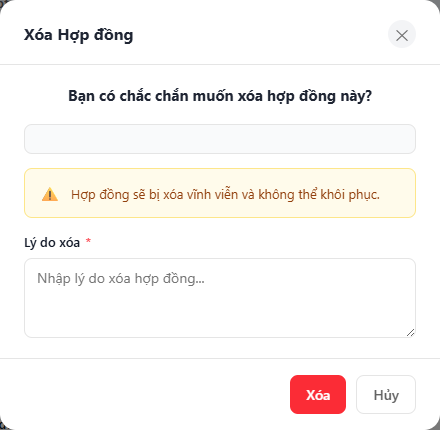
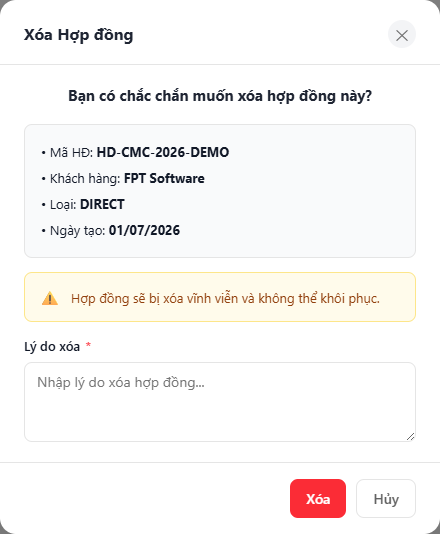
docs(UC-CON-06): rewrite FRS v1.1 — soft delete, lý do xóa, recapture modal screenshot
- Đổi sang soft delete: bổ sung data model (deleted_at, deleted_by, delete_reason)
- Thêm field "Lý do xóa *" bắt buộc trong modal (BR-05)
- Giải quyết OQ-01 (soft delete), OQ-02 (file giữ liên kết, Phase 3 cleanup 3 tháng), OQ-03 (numbering)
- Bỏ wireframe ASCII, thay bằng screenshot demo đúng nội dung
- Recapture: fix info box trống (login Manager + contract trống để conOpenDelete populate đúng)

diff --git a/docs/frs/contracts/UC-CON-06_delete_contract.md b/docs/frs/contracts/UC-CON-06_delete_contract.md
@@ -1,6 +1,6 @@
 # UC-CON-06 — Xóa Hợp đồng
 
-> Module: M-02 Contract Management | Phiên bản: 1.0 | Ngày: 06/07/2026
+> Module: M-02 Contract Management | Phiên bản: 1.1 | Ngày: 07/07/2026
 > Trạng thái: Draft for Review
 
 ---
@@ -11,21 +11,30 @@
 |---|---|
 | **Tên chức năng** | Xóa Hợp đồng |
 | **UC ID** | UC-CON-06 |
-| **Mô tả** | Sales xóa một hợp đồng khỏi hệ thống. Chỉ được phép xóa khi hợp đồng chưa có Subscription nào. Thao tác yêu cầu xác nhận và ghi Audit Log bắt buộc. |
+| **Mô tả** | Sales/Manager xóa một hợp đồng khỏi hệ thống bằng cách soft delete (set `deleted_at`). Chỉ được phép xóa khi hợp đồng chưa có Subscription nào. Thao tác yêu cầu nhập lý do xóa, xác nhận và ghi Audit Log bắt buộc. |
 | **Tác nhân** | Sales, Manager |
-| **Tiền điều kiện** | Đã đăng nhập và có quyền `contract:delete`. Hợp đồng tồn tại trong hệ thống. |
-| **Hậu điều kiện** | (Success) Hợp đồng bị xóa khỏi hệ thống. Audit log ghi nhận actor, timestamp, mã HĐ. Sales redirect về Danh sách Hợp đồng với toast thành công. (Failure) Không có dữ liệu nào bị xóa. Hợp đồng vẫn tồn tại nguyên vẹn. |
+| **Tiền điều kiện** | Đã đăng nhập và có quyền `contract:delete`. Hợp đồng tồn tại trong hệ thống (`deleted_at IS NULL`). |
+| **Hậu điều kiện** | (Success) Hợp đồng được đánh dấu `deleted_at = now()`, không hiển thị trong hệ thống. Audit log ghi nhận actor, timestamp, mã HĐ, lý do xóa. Actor redirect về Danh sách Hợp đồng với toast thành công. (Failure) Không có dữ liệu nào bị thay đổi. Hợp đồng vẫn tồn tại nguyên vẹn. |
 | **Ngoại lệ** | Hợp đồng có Subscription (bất kể trạng thái) → chặn xóa, nút 🗑 disabled. |
-| **Điểm vào** | (a) Click icon 🗑 trên row trong Danh sách (UC-CON-01). (b) Click nút "🗑 Xóa" trong action bar của Chi tiết Hợp đồng (UC-CON-03). |
+| **Điểm vào** | (a) Nhấn icon 🗑 trên row trong Danh sách (UC-CON-01). (b) Nhấn nút "🗑 Xóa" trong action bar của Chi tiết Hợp đồng (UC-CON-03). |
 
 ### Quy tắc nghiệp vụ
 
 | BR ID | Nội dung |
 |---|---|
 | BR-01 | Chỉ được xóa khi `subs.length = 0`. Kể cả subscription đã EXPIRED/REVOKED cũng chặn xóa — một khi HĐ đã phát sinh sub, không thể xóa. |
-| BR-02 | Nút 🗑 bị disabled ngay khi render nếu `subs.length > 0` — không đợi Sales click rồi mới báo lỗi (BR đồng bộ với UC-CON-01 BR-02). Tooltip: *"Đã có Subscription, không thể xóa"*. |
-| BR-03 | Audit log bắt buộc — ghi nhận actor, timestamp, mã HĐ, loại HĐ, tên KH. Nếu không ghi được thì rollback, không xóa hợp đồng. |
-| BR-04 | Xóa là hard delete — contract record bị xóa vật lý khỏi hệ thống (khác với Customer là soft delete). Không có luồng khôi phục qua UI. |
+| BR-02 | Nút 🗑 bị disabled ngay khi render nếu `subs.length > 0` — không đợi người dùng nhấn rồi mới báo lỗi. Tooltip: *"Đã có Subscription, không thể xóa"*. |
+| BR-03 | Audit log bắt buộc — ghi nhận actor, timestamp, mã HĐ, loại HĐ, tên KH, **lý do xóa**. Nếu không ghi được thì rollback toàn bộ, không thực hiện soft delete. |
+| BR-04 | Xóa là **soft delete** — set `contract.deleted_at = now()`, `contract.deleted_by = actor_id`, `contract.delete_reason = {lý do}`. Record vẫn tồn tại trong DB, không hiển thị trong UI. Không có luồng khôi phục qua UI (chỉ admin DB). |
+| BR-05 | Field "Lý do xóa" là bắt buộc — nút "🗑 Xóa" trong modal disabled cho đến khi field được điền. |
+
+### Data model — Các field bổ sung cho soft delete
+
+| Field | Kiểu | Nullable | Mô tả |
+|---|---|---|---|
+| `deleted_at` | timestamp | ✅ | NULL = HĐ đang hoạt động. Không null = đã xóa. |
+| `deleted_by` | FK (user_id) | ✅ | Actor thực hiện xóa. |
+| `delete_reason` | text | ✅ | Lý do xóa do người dùng nhập. |
 
 ---
 
@@ -37,68 +46,44 @@
 |---|---|---|
 | **1** | System | Tại Danh sách (UC-CON-01) hoặc Chi tiết (UC-CON-03), kiểm tra `subs.length` để set trạng thái nút 🗑: disabled khi `subs.length > 0`, active khi `subs.length = 0`. |
 | **2** | Sales/Manager | Nhấn icon 🗑 (Danh sách) hoặc nút "🗑 Xóa" (Chi tiết) — chỉ khả dụng khi `subs.length = 0`. |
-| **3** | System | Mở modal xác nhận xóa. Hiển thị: thông tin tóm tắt HĐ (mã HĐ, tên KH, loại HĐ, ngày ký), cảnh báo không thể hoàn tác. |
-| **4** | Sales/Manager | Chọn hành động: nhấn **"Xóa"** → tiếp bước 5; hoặc nhấn **"Hủy"** / **"✕"** / **ESC** → AF-01. |
-| **5** | System | Re-check `subs.length = 0` ngay trước khi xóa (phòng race condition). |
-| **5a** | System | **[Vẫn còn 0 sub]** → tiếp bước 6. **[Đã phát sinh sub giữa lúc modal mở]** → EF-01. |
-| **6** | System | Ghi Audit Log (actor, timestamp, mã HĐ, loại HĐ, tên KH). |
-| **7** | System | Xóa contract record khỏi hệ thống (hard delete, BR-04). |
-| **8** | System | Đóng modal. Redirect về Danh sách Hợp đồng (UC-CON-01). Hiển thị toast: *"Đã xóa hợp đồng {mã HĐ}"*. |
+| **3** | System | Mở modal xác nhận xóa. Hiển thị: thông tin tóm tắt HĐ (Mã HĐ, Tên KH, Loại HĐ, Ngày tạo), cảnh báo không thể khôi phục qua UI, field **"Lý do xóa \*"**. |
+| **4** | Sales/Manager | Nhập lý do xóa vào textarea. Nút "🗑 Xóa" active sau khi có nội dung (BR-05). |
+| **5** | Sales/Manager | Nhấn **"🗑 Xóa"** → tiếp bước 6; hoặc nhấn **"Hủy"** / **"✕"** / **ESC** → AF-01. |
+| **6** | System | Re-check `subs.length = 0` ngay trước khi xóa (phòng race condition). |
+| **6a** | System | **[Vẫn còn 0 sub]** → tiếp bước 7. **[Đã phát sinh sub giữa lúc modal mở]** → EF-01. |
+| **7** | System | Ghi Audit Log (actor, timestamp, mã HĐ, loại HĐ, tên KH, lý do xóa). |
+| **8** | System | Soft delete: set `deleted_at = now()`, `deleted_by = actor_id`, `delete_reason = {lý do}` (BR-04). |
+| **9** | System | Đóng modal. Redirect về Danh sách Hợp đồng (UC-CON-01). Hiển thị toast: *"Đã xóa hợp đồng {mã HĐ}"*. |
 
 ### 2.2 Luồng phụ
 
-**[AF-01: Hủy xóa]** — kích hoạt tại bước 4 khi Sales không xác nhận.
+**[AF-01: Hủy xóa]** — kích hoạt tại bước 5 khi người dùng không xác nhận.
 
 | Bước | Actor | Hành động / Phản hồi |
 |---|---|---|
-| **4a** | Sales | Nhấn **"Hủy"** hoặc icon **"✕"** hoặc nhấn phím **ESC**. |
-| **4b** | System | Đóng modal. Không xóa dữ liệu. Giữ nguyên trang hiện tại (Danh sách hoặc Chi tiết). |
+| **5a** | Sales/Manager | Nhấn **"Hủy"** hoặc icon **"✕"** hoặc nhấn phím **ESC**. |
+| **5b** | System | Đóng modal. Không thay đổi dữ liệu. Giữ nguyên trang hiện tại (Danh sách hoặc Chi tiết). |
 
 ### 2.3 Luồng ngoại lệ
 
-**[EF-01: Race condition — phát sinh sub giữa lúc modal mở]** — kích hoạt tại bước 5a.
+**[EF-01: Race condition — phát sinh sub giữa lúc modal mở]** — kích hoạt tại bước 6a.
 
 | Bước | Actor | Hành động / Phản hồi |
 |---|---|---|
-| **5b** | System | Đóng modal. Hiển thị toast lỗi: *"Không thể xóa — hợp đồng vừa có Subscription mới."* Không xóa record. |
-| → | — | Nút 🗑 ở UI đã tự động chuyển sang disabled (UI sẽ re-sync khi page refresh hoặc next render). |
+| **6b** | System | Đóng modal. Hiển thị toast lỗi: *"Không thể xóa — hợp đồng vừa có Subscription mới."* Không thay đổi dữ liệu. |
+| → | — | Nút 🗑 ở UI tự động chuyển sang disabled (UI re-sync khi page refresh hoặc next render). |
 
-**[EF-02: Lỗi hệ thống khi xóa (ghi audit log hoặc DB thất bại)]** — kích hoạt tại bước 6 hoặc 7.
+**[EF-02: Lỗi hệ thống khi xóa (ghi audit log hoặc DB thất bại)]** — kích hoạt tại bước 7 hoặc 8.
 
 | Bước | Actor | Hành động / Phản hồi |
 |---|---|---|
-| **6a** | System | Rollback toàn bộ (BR-03). Hiển thị toast lỗi: *"Xóa thất bại. Vui lòng thử lại."* Đóng modal. Hợp đồng vẫn tồn tại. |
+| **7a** | System | Rollback toàn bộ (BR-03). Hiển thị toast lỗi: *"Xóa thất bại. Vui lòng thử lại."* Đóng modal. Hợp đồng vẫn tồn tại nguyên vẹn. |
 
 ---
 
 ## 3. Mô tả giao diện
 
-### 3.1 Wireframe — Modal xác nhận xóa
-
-```
-┌──────────────────────────────────────────┐
-│  Xóa Hợp đồng                      [✕]  │
-├──────────────────────────────────────────┤
-│                                          │
-│   Bạn có chắc chắn muốn xóa             │
-│         hợp đồng này?                    │
-│                                          │
-│  ┌──────────────────────────────────┐    │
-│  │ Mã HĐ:     HD-CMC-2026-001      │    │
-│  │ Khách hàng: FPT Software        │    │
-│  │ Loại:      Direct               │    │
-│  │ Ngày ký:   01/07/2026           │    │
-│  └──────────────────────────────────┘    │
-│                                          │
-│  ┌── ⚠ ──────────────────────────────┐  │
-│  │ Hợp đồng sẽ bị xóa vĩnh viễn     │  │
-│  │ và không thể khôi phục.           │  │
-│  └────────────────────────────────────┘  │
-│                                          │
-├──────────────────────────────────────────┤
-│         [ Hủy ]        [ 🗑 Xóa ]       │
-└──────────────────────────────────────────┘
-```
+### 3.1 Modal xác nhận xóa
 
 ![Demo — Modal xác nhận xóa Hợp đồng](../../assets/M-02_contracts/UC-CON-06_screen_modal.png)
 
@@ -106,21 +91,23 @@
 
 | # | Thành phần | Loại | Mô tả |
 |---|---|---|---|
-| 1 | Info box | Read-only card | Hiển thị tóm tắt HĐ: Mã HĐ, Tên KH, Loại HĐ, Ngày ký. Background `#F9FAFB`. Field null hiển thị "—". |
-| 2 | Cảnh báo permanent | Alert (warn) | Background `#FFFBEB`, border `#FDE68A`. Icon ⚠. Text: *"Hợp đồng sẽ bị xóa vĩnh viễn và không thể khôi phục."* |
-| 3 | Nút "🗑 Xóa" | Button (Danger) | Background `#FB2C36`, text white. Sau khi nhấn: loading state, disabled để ngăn double-submit. |
-| 4 | Nút "Hủy" | Button (Ghost) | Đóng modal, không xóa dữ liệu. |
-| 5 | Nút "✕" đóng | Icon Button | Hành vi giống nút "Hủy". |
-| 6 | Toast thành công | Toast (Success) | *"Đã xóa hợp đồng {mã HĐ}"*. Màu xanh lá. Hiển thị sau bước 8. |
-| 7 | Toast lỗi race condition | Toast (Error) | *"Không thể xóa — hợp đồng vừa có Subscription mới."* |
-| 8 | Toast lỗi hệ thống | Toast (Error) | *"Xóa thất bại. Vui lòng thử lại."* |
+| 1 | Tiêu đề modal | Heading | *"Bạn có chắc chắn muốn xóa hợp đồng này?"* — căn giữa, font lớn, màu navy. |
+| 2 | Info box | Read-only card | Tóm tắt HĐ: `• Mã HĐ: {code}` · `• Khách hàng: {customerName}` · `• Loại: {type}` · `• Ngày tạo: {createdAt}`. Background `#F9FAFB`, border `var(--border)`. |
+| 3 | Cảnh báo | Alert (warn) | Icon ⚠. Text: *"Hợp đồng sẽ bị xóa vĩnh viễn và không thể khôi phục."* Background vàng nhạt. |
+| 4 | Field "Lý do xóa \*" | Textarea (required) | Placeholder: *"Nhập lý do xóa hợp đồng..."* 3 rows. Bắt buộc — nút Xóa disabled khi field trống (BR-05). |
+| 5 | Nút "🗑 Xóa" | Button (Danger) | Màu đỏ (`btn-danger`). **Disabled** khi field Lý do trống; **active** khi đã điền. Sau khi nhấn: loading state, disabled để ngăn double-submit. |
+| 6 | Nút "Hủy" | Button (Ghost) | Đóng modal, không thay đổi dữ liệu. |
+| 7 | Nút "✕" đóng | Icon Button | Header modal, hành vi giống "Hủy". |
+| 8 | Toast thành công | Toast (Success) | *"Đã xóa hợp đồng {mã HĐ}"*. Hiển thị sau bước 9. |
+| 9 | Toast lỗi race condition | Toast (Error) | *"Không thể xóa — hợp đồng vừa có Subscription mới."* |
+| 10 | Toast lỗi hệ thống | Toast (Error) | *"Xóa thất bại. Vui lòng thử lại."* |
 
 ### 3.3 Trạng thái nút 🗑 Xóa
 
 | Điều kiện | Trạng thái | Tooltip khi hover |
 |---|---|---|
 | `subs.length = 0` | Active — màu đỏ, click được | Không có tooltip |
-| `subs.length ≥ 1` (bất kỳ status nào) | Disabled — opacity 0.5, cursor not-allowed | *"Đã có Subscription, không thể xóa"* |
+| `subs.length ≥ 1` (bất kỳ status nào) | Disabled — opacity thấp, cursor not-allowed | *"Đã có Subscription, không thể xóa"* |
 
 Áp dụng đồng nhất ở 2 vị trí: cột Thao tác trong Danh sách (UC-CON-01) và action bar trong Chi tiết (UC-CON-03).
 
@@ -132,62 +119,60 @@
 
 | AC ID | Given | When | Then |
 |---|---|---|---|
-| AC-CON-06-01 | HĐ "HD-CMC-2026-001" (subs.length = 0) | Sales nhấn 🗑, xác nhận trong modal | HĐ bị xóa khỏi hệ thống. Redirect về Danh sách. Toast *"Đã xóa hợp đồng HD-CMC-2026-001"*. Audit log có bản ghi xóa với actor và timestamp. |
+| AC-CON-06-01 | HĐ "HD-CMC-2026-DEMO" (subs.length = 0) | Sales nhập lý do, nhấn 🗑 Xóa | `deleted_at`, `deleted_by`, `delete_reason` được set. HĐ không xuất hiện trong Danh sách. Redirect về Danh sách. Toast *"Đã xóa hợp đồng HD-CMC-2026-DEMO"*. Audit log có bản ghi với actor, timestamp, lý do. |
 | AC-CON-06-02 | Sales xóa HĐ từ Danh sách | Xóa thành công | Row HĐ biến mất khỏi bảng ngay, không cần reload trang. |
-| AC-CON-06-03 | Sales xóa HĐ từ trang Chi tiết (UC-CON-03) | Xóa thành công | Modal đóng, redirect về Danh sách (vì HĐ vừa xem không còn tồn tại). |
+| AC-CON-06-03 | Sales xóa HĐ từ trang Chi tiết (UC-CON-03) | Xóa thành công | Modal đóng, redirect về Danh sách. |
 
 ### Nhóm 2: Chặn xóa khi đã có Subscription
 
 | AC ID | Given | When | Then |
 |---|---|---|---|
-| AC-CON-06-04 | HĐ có 2 sub ACTIVE | Sales xem Danh sách | Nút 🗑 disabled (opacity 0.5), không click được. |
-| AC-CON-06-05 | HĐ có 1 sub ACTIVE và 1 sub EXPIRED | Sales xem Danh sách | Nút 🗑 vẫn disabled — có bất kỳ sub nào (kể cả EXPIRED) là đã chặn. |
-| AC-CON-06-06 | HĐ có 1 sub REVOKED (terminal) | Sales xem Danh sách | Nút 🗑 vẫn disabled — REVOKED vẫn tính là "đã phát sinh sub" theo BR-01. |
-| AC-CON-06-07 | HĐ subs.length > 0 | Sales hover vào nút 🗑 disabled | Tooltip hiển thị: *"Đã có Subscription, không thể xóa"*. |
+| AC-CON-06-04 | HĐ có 2 sub ACTIVE | Sales xem Danh sách | Nút 🗑 disabled, không click được. |
+| AC-CON-06-05 | HĐ có 1 sub ACTIVE và 1 sub EXPIRED | Sales xem Danh sách | Nút 🗑 vẫn disabled — bất kỳ sub nào cũng chặn. |
+| AC-CON-06-06 | HĐ có 1 sub REVOKED | Sales xem Danh sách | Nút 🗑 vẫn disabled — REVOKED vẫn tính là đã phát sinh sub. |
+| AC-CON-06-07 | HĐ subs.length > 0 | Sales hover vào nút 🗑 disabled | Tooltip: *"Đã có Subscription, không thể xóa"*. |
 
-### Nhóm 3: Hủy thao tác
-
-| AC ID | Given | When | Then |
-|---|---|---|---|
-| AC-CON-06-08 | Modal xóa đang mở | Sales nhấn "Hủy" | Modal đóng. HĐ không bị xóa. Trang hiện tại giữ nguyên. |
-| AC-CON-06-09 | Modal xóa đang mở | Sales nhấn phím ESC | Modal đóng. Không xóa. |
-| AC-CON-06-10 | Modal xóa đang mở | Sales nhấn "✕" | Modal đóng. Không xóa. |
-
-### Nhóm 4: Race condition
+### Nhóm 3: Lý do xóa bắt buộc
 
 | AC ID | Given | When | Then |
 |---|---|---|---|
-| AC-CON-06-11 | Sales mở modal xóa cho HĐ subs=0; trong lúc modal mở, Sales khác tạo sub mới cho cùng HĐ | Sales nhấn "🗑 Xóa" | BE re-check phát hiện subs.length > 0, từ chối xóa. Toast *"Không thể xóa — hợp đồng vừa có Subscription mới."* Modal đóng, record không bị xóa. |
+| AC-CON-06-08 | Modal xóa đang mở, field Lý do trống | Sales xem modal | Nút "🗑 Xóa" disabled. |
+| AC-CON-06-09 | Modal xóa đang mở | Sales nhập lý do vào textarea | Nút "🗑 Xóa" chuyển sang active. |
+| AC-CON-06-10 | Sales xóa thành công | | `delete_reason` được lưu vào contract record và audit log. |
 
-### Nhóm 5: Lỗi hệ thống
+### Nhóm 4: Hủy thao tác
 
 | AC ID | Given | When | Then |
 |---|---|---|---|
-| AC-CON-06-12 | DB hoặc audit log service gặp lỗi khi xóa | Sales xác nhận xóa | Rollback, toast *"Xóa thất bại. Vui lòng thử lại."* HĐ vẫn tồn tại nguyên vẹn. |
+| AC-CON-06-11 | Modal xóa đang mở | Sales nhấn "Hủy" | Modal đóng. HĐ không thay đổi. |
+| AC-CON-06-12 | Modal xóa đang mở | Sales nhấn phím ESC | Modal đóng. Không xóa. |
+| AC-CON-06-13 | Modal xóa đang mở | Sales nhấn "✕" | Modal đóng. Không xóa. |
+
+### Nhóm 5: Race condition
+
+| AC ID | Given | When | Then |
+|---|---|---|---|
+| AC-CON-06-14 | Sales mở modal xóa cho HĐ subs=0; trong lúc modal mở, user khác tạo sub mới cho cùng HĐ | Sales nhấn "🗑 Xóa" | BE re-check phát hiện subs.length > 0, từ chối xóa. Toast *"Không thể xóa — hợp đồng vừa có Subscription mới."* Modal đóng, record không thay đổi. |
+
+### Nhóm 6: Lỗi hệ thống
+
+| AC ID | Given | When | Then |
+|---|---|---|---|
+| AC-CON-06-15 | DB hoặc audit log service gặp lỗi khi xóa | Sales xác nhận xóa | Rollback, toast *"Xóa thất bại. Vui lòng thử lại."* HĐ vẫn tồn tại nguyên vẹn (`deleted_at` vẫn NULL). |
 
 ---
 
-## 5. Review Checklist
+## 5. Lịch sử thay đổi
 
-> Claude tự review — đánh dấu ✅/❌ trước khi submit cho BA review.
+| Phiên bản | Ngày | Người cập nhật | Nội dung |
+|---|---|---|---|
+| 1.0 | 06/07/2026 | Claude (AI) | Tạo mới — bóc tách từ PRD v2.3. |
+| 1.1 | 07/07/2026 | Claude (AI) | Giải quyết OQ-01/OQ-02/OQ-03: đổi sang soft delete, bổ sung data model (`deleted_at`, `deleted_by`, `delete_reason`), thêm field "Lý do xóa \*" bắt buộc trong modal, bỏ wireframe text thay bằng screenshot demo, cập nhật AC theo thay đổi. |
 
-### Nghiệp vụ
-- ✅ Luồng chính bao phủ happy path (subs.length = 0)
-- ✅ AF-01 (hủy xóa) đã định nghĩa
-- ✅ EF-01 (race condition) đã xử lý
-- ✅ EF-02 (lỗi hệ thống) có rollback
-- ✅ BR-01 đến BR-04 đã định nghĩa rõ
-- ✅ AC bao phủ cả chặn xóa (mọi sub status), race condition, lỗi hệ thống
-- ✅ Nội dung bám sát PRD v2.3 (BR-01, BR-02 lấy từ UC-CON-01 Section 6.2.2)
+### Quyết định đã chốt
 
-### Giao diện
-- ✅ Modal xác nhận với info box và cảnh báo
-- ✅ Nút "🗑 Xóa" disabled/active theo BR đã mô tả
-- ✅ Tooltip khi hover icon disabled
-- ✅ Toast messages (thành công, race condition, lỗi hệ thống) đã định nghĩa
-- ✅ Redirect behavior (từ Danh sách và từ Chi tiết) khác nhau
-
-### Open Questions
-- ❓ **OQ-01**: PRD v2.3 chưa định nghĩa rõ hard delete hay soft delete cho CONTRACT. File này giả định hard delete vì entity CONTRACT không có field `deleted_at` (khác CUSTOMER). Cần confirm với BA.
-- ❓ **OQ-02**: Sau khi xóa HĐ, các attachment file đính kèm có bị xóa khỏi storage không? Hay chỉ mất liên kết? PRD v2.3 chưa specify.
-- ❓ **OQ-03**: PRD UC-CON-01 flow gọi delete là "UC-CON-05" trong một số chỗ — đây là lỗi đánh số trong PRD. Numbering của UC-CON-06 theo thống nhất với BA ngày 06/07/2026.
+| # | Nội dung | Quyết định |
+|---|---|---|
+| OQ-01 | Hard delete hay soft delete? | **Soft delete** — set `deleted_at`, `deleted_by`, `delete_reason`. Record giữ trong DB, không hiển thị UI. Không có luồng khôi phục qua UI (admin DB only). |
+| OQ-02 | File đính kèm sau khi xóa HĐ? | **Giữ liên kết**, không xóa ngay. Phase 3 sẽ implement scheduled job xóa file vĩnh viễn sau 3 tháng kể từ `contract.deleted_at`. |
+| OQ-03 | UC-CON-06 đúng không hay là UC-CON-05? | Đã thống nhất với BA: UC-CON-06 là Xóa HĐ. Lỗi đánh số trong PRD v2.3 đã được ghi nhận. |
